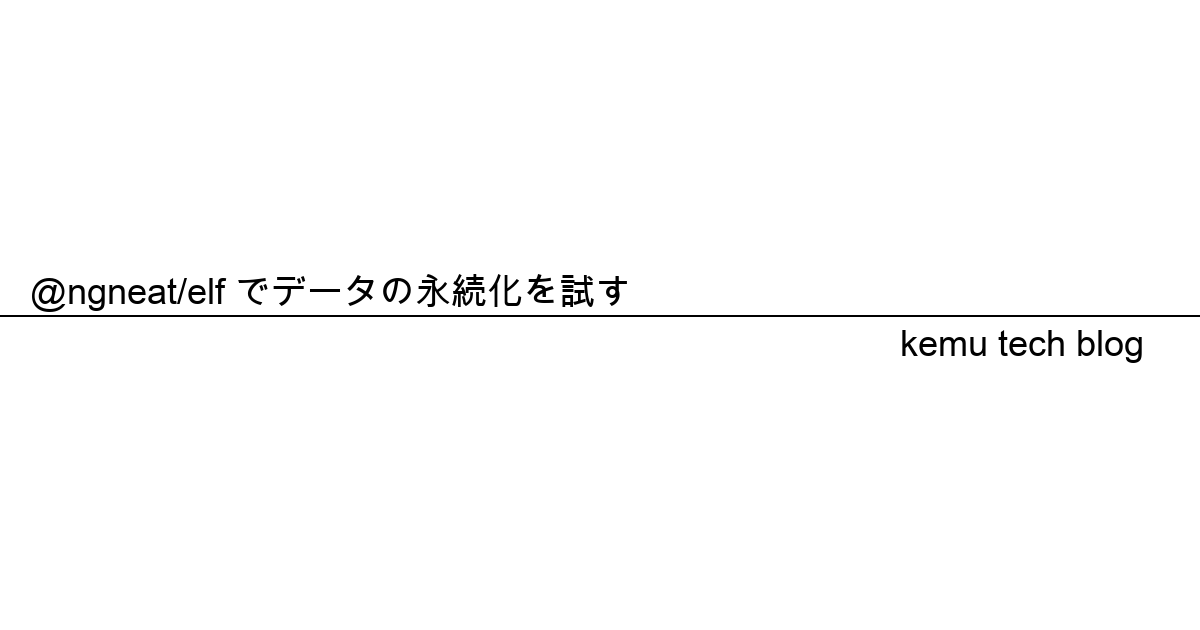
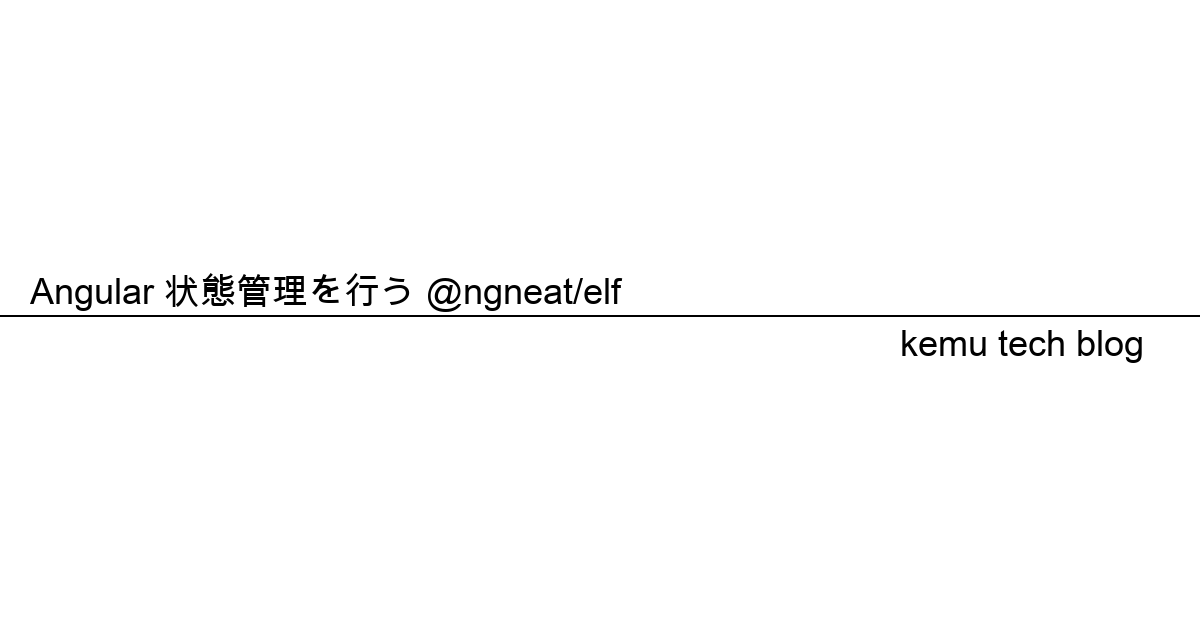
Auto-generated commit [ci skip]
Triggered by commit: https://github.com/kemu3007/portal/commit/6e4d956bd43f91a28b83e9a7c2ab896b333e4a61

Changed region(s): [[0.0, 0.4222, 0.5242, 0.5127]]

diff --git a/789.3d772800b474000d.js b/789.3d772800b474000d.js
@@ -1,0 +1,1 @@
+(self.webpackChunkportal=self.webpackChunkportal||[]).push([[789],{2789:(m,f,a)=>{"use strict";a.r(f),a.d(f,{BlogModule:()=>G});var s=a(9808),i=a(2956),t=a(1223),g=a(2313),b=a(1127),p=a(8304),v=a(1364),C=a(1441),y=a(3892);function j(o,l){if(1&o&&(t.TgZ(0,"div",12)(1,"div",13)(2,"div",14),t._UZ(3,"img",15),t.TgZ(4,"a",16),t._uU(5),t.qZA(),t._UZ(6,"br"),t.qZA(),t._UZ(7,"hr"),t._uU(8),t.qZA()()),2&o){const e=l.$implicit;t.xp6(3),t.Q6J("src",e.user.avatar_url,t.LSH),t.xp6(1),t.Q6J("href",e.user.html_url,t.LSH),t.xp6(1),t.Oqu(e.user.login),t.xp6(3),t.hij(" ",e.body," ")}}function F(o,l){1&o&&t._UZ(0,"ng2-adsense",17)}const B=function(){return[]};function x(o,l){if(1&o&&(t.TgZ(0,"div",3)(1,"div",4)(2,"h2"),t._uU(3),t.qZA(),t.TgZ(4,"div",5)(5,"p"),t._uU(6),t.ALo(7,"date"),t.qZA(),t._UZ(8,"app-tweet-btn"),t.qZA(),t._UZ(9,"hr")(10,"div",6)(11,"hr",7),t.TgZ(12,"h3"),t._uU(13,"comments"),t.qZA(),t.YNc(14,j,9,4,"div",8),t.TgZ(15,"p"),t._uU(16," \u30b3\u30e1\u30f3\u30c8\u306f\u3053\u3061\u3089\u304b\u3089 "),t.TgZ(17,"a",9),t._uU(18),t.qZA(),t._UZ(19,"br"),t._uU(20," \u203b\u30ea\u30ea\u30fc\u30b9\u30bf\u30a4\u30df\u30f3\u30b0\u306e\u554f\u984c\u4e0a\u30da\u30fc\u30b8\u306b\u53cd\u6620\u3055\u308c\u306a\u3044\u3053\u3068\u304c\u3042\u308a\u307e\u3059\u304c\u78ba\u8a8d\u3057\u3066\u307e\u3059\u3002 "),t.qZA()(),t.TgZ(21,"div",10),t.YNc(22,F,1,0,"ng2-adsense",11),t.qZA()()),2&o){const e=t.oxw();t.xp6(3),t.Oqu(e.article.title),t.xp6(3),t.Oqu(t.xi3(7,7,e.article.created_at,"yyyy.MM.dd hh:mm")),t.xp6(4),t.Q6J("innerHTML",e.marked.parse(e.article.body),t.oJD),t.xp6(4),t.Q6J("ngForOf",e.article.comments),t.xp6(3),t.Q6J("href",e.article.html_url,t.LSH),t.xp6(1),t.Oqu(e.article.html_url),t.xp6(4),t.Q6J("ngForOf",t.DdM(10,B).constructor(e.adsLength))}}let D=(()=>{class o{constructor(e,n,r,c,u,h){this.titleService=e,this.route=n,this.router=r,this.messageService=c,this.breadcrumbService=u,this.markedService=h,this.marked=this.markedService.marked}ngOnInit(){this.article$.then(e=>{this.titleService.setTitle(`kemu tech blog | ${e.title}`),this.article=e,this.breadcrumbService.breadcrumb=`/blog/${this.article.title}`})}get article$(){return a(3101)(`./${this.route.snapshot.paramMap.get("id")}.json`).catch(e=>this.router.navigate(["/blog"]).then(n=>this.messageService.pushMessage({type:"warning",body:"\u8a18\u4e8b\u304c\u5b58\u5728\u3057\u3066\u3044\u307e\u305b\u3093"})))}get adsLength(){return window.screen.width>=768?4:1}}return o.\u0275fac=function(e){return new(e||o)(t.Y36(g.Dx),t.Y36(i.gz),t.Y36(i.F0),t.Y36(b.e),t.Y36(p.p),t.Y36(v.$))},o.\u0275cmp=t.Xpm({type:o,selectors:[["app-blog-detail"]],decls:3,vars:1,consts:[["rel","stylesheet","href","//cdn.jsdelivr.net/gh/highlightjs/cdn-release@11.4.0/build/styles/default.min.css"],[1,"container-fluid"],["class","row mt-3",4,"ngIf"],[1,"row","mt-3"],[1,"col-md-8"],[1,"d-flex","justify-content-between"],[3,"innerHTML"],[1,"mt-5"],["class","card",4,"ngFor","ngForOf"],[3,"href"],[1,"col-md-4"],["style","display: block","adFormat","fluid","slot","9091938102","layoutKey","-ef+6k-30-ac+ty",4,"ngFor","ngForOf"],[1,"card"],[1,"card-body"],[1,"row"],[2,"width","50px",3,"src"],[2,"display","contents",3,"href"],["adFormat","fluid","slot","9091938102","layoutKey","-ef+6k-30-ac+ty",2,"display","block"]],template:function(e,n){1&e&&(t._UZ(0,"link",0),t.TgZ(1,"div",1),t.YNc(2,x,23,11,"div",2),t.qZA()),2&e&&(t.xp6(2),t.Q6J("ngIf",n.article))},directives:[s.O5,C.x,s.sg,y.nq],pipes:[s.uU],styles:["[_nghost-%COMP%]     img{max-width:100%}"]}),o})();var T=a(3996),Z=a(1566),L=a(4482),O=a(5403),M=a(1884),S=a(4004),U=a(8443);const P=function(o){return{"background-color":o}};function k(o,l){if(1&o&&(t.TgZ(0,"p",17),t._uU(1),t.qZA()),2&o){const e=l.$implicit;t.Q6J("ngStyle",t.VKq(2,P,"#"+e.color)),t.xp6(1),t.hij(" ",e.name," ")}}function w(o,l){1&o&&t._UZ(0,"ng2-adsense",18)}const J=function(o){return["/blog",o]};function H(o,l){if(1&o&&(t.TgZ(0,"div")(1,"a",8)(2,"div",9)(3,"div",10)(4,"h5",11),t._uU(5),t.qZA(),t.TgZ(6,"div",12),t.YNc(7,k,2,4,"p",13),t.qZA()(),t._UZ(8,"hr",14),t.TgZ(9,"p",15),t._uU(10),t.qZA()()(),t.YNc(11,w,1,0,"ng2-adsense",16),t.qZA()),2&o){const e=l.$implicit,n=l.index,r=t.oxw();t.xp6(1),t.Q6J("routerLink",t.VKq(5,J,e)),t.xp6(4),t.hij(" ",r.articles[e].title," "),t.xp6(2),t.Q6J("ngForOf",r.getLabels(r.articles[e])),t.xp6(3),t.hij("",r.articles[e].body,"..."),t.xp6(1),t.Q6J("ngIf",(n+1)%3==0)}}function N(o,l){1&o&&t._UZ(0,"ng2-adsense",19)}const Q=function(){return[]},Y=[{path:"",component:(()=>{class o{constructor(e,n){this.router=n,this.search=r=>r.pipe(function E(o,l=Z.z){return(0,L.e)((e,n)=>{let r=null,c=null,u=null;const h=()=>{if(r){r.unsubscribe(),r=null;const d=c;c=null,n.next(d)}};function K(){const d=u+o,A=l.now();if(A<d)return r=this.schedule(void 0,d-A),void n.add(r);h()}e.subscribe((0,O.x)(n,d=>{c=d,u=l.now(),r||(r=l.schedule(K,o),n.add(r))},()=>{h(),n.complete()},void 0,()=>{c=r=null}))})}(200),(0,M.x)()).pipe((0,S.U)(c=>Object.keys(this.searchData).filter(u=>u.toLowerCase().includes(c.toLowerCase())))),e.setTitle("kemu tech blog")}get articles(){return T}get articleKeys(){return Object.keys(this.articles).sort((e,n)=>e>n?-1:1)}get searchData(){const e={};return Object.keys(this.articles).forEach(n=>{const r=`${this.articles[n].title} | ${this.getLabels(this.articles[n])[0].name}`;e[r]=n}),e}get adsLength(){return window.screen.width>=768?Math.floor(Object.keys(this.articles).length/3):1}getLabels(e){return e.labels.filter(n=>"article"!==n.name)}selectArticle(e){this.router.navigate(["/blog",this.searchData[e.item]])}}return o.\u0275fac=function(e){return new(e||o)(t.Y36(g.Dx),t.Y36(i.F0))},o.\u0275cmp=t.Xpm({type:o,selectors:[["app-blog-list"]],decls:8,vars:4,consts:[[1,"container-fluid"],[1,"row","mt-3"],[1,"col-md-8"],["placeholder","search","NgbTypeahead","",1,"form-control",3,"ngbTypeahead","selectItem","blur"],["instance","ngbTypeahead"],[4,"ngFor","ngForOf"],[1,"col-md-4"],["style","display: block","adFormat","fluid","slot","9091938102","layoutKey","-ef+6k-30-ac+ty",4,"ngFor","ngForOf"],[1,"card","mt-1","text-decoration-none","text-muted",2,"cursor","pointer",3,"routerLink"],[1,"card-body"],[1,"row"],[1,"col-9","card-link","text-black"],[1,"col-3","d-flex","align-items-start","justify-content-end"],["class","badge rounded-pill",3,"ngStyle",4,"ngFor","ngForOf"],[1,"mt-0"],[1,"card-text"],["adFormat","horizontal",4,"ngIf"],[1,"badge","rounded-pill",3,"ngStyle"],["adFormat","horizontal"],["adFormat","fluid","slot","9091938102","layoutKey","-ef+6k-30-ac+ty",2,"display","block"]],template:function(e,n){if(1&e){const r=t.EpF();t.TgZ(0,"div",0)(1,"div",1)(2,"div",2)(3,"input",3,4),t.NdJ("selectItem",function(u){return n.selectArticle(u)})("blur",function(){return t.CHM(r),t.MAs(4).dismissPopup()}),t.qZA(),t.YNc(5,H,12,7,"div",5),t.qZA(),t.TgZ(6,"div",6),t.YNc(7,N,1,0,"ng2-adsense",7),t.qZA()()()}2&e&&(t.xp6(3),t.Q6J("ngbTypeahead",n.search),t.xp6(2),t.Q6J("ngForOf",n.articleKeys),t.xp6(2),t.Q6J("ngForOf",t.DdM(3,Q).constructor(n.adsLength)))},directives:[U.dR,s.sg,i.yS,s.PC,s.O5,y.nq],encapsulation:2}),o})()},{path:":id",component:D}];let I=(()=>{class o{}return o.\u0275fac=function(e){return new(e||o)},o.\u0275mod=t.oAB({type:o}),o.\u0275inj=t.cJS({imports:[[i.Bz.forChild(Y)],i.Bz]}),o})();var $=a(4466);let G=(()=>{class o{}return o.\u0275fac=function(e){return new(e||o)},o.\u0275mod=t.oAB({type:o}),o.\u0275inj=t.cJS({imports:[[s.ez,I,$.m]]}),o})()},3101:(m,f,a)=>{var s={"./1160526026.json":[898,898],"./1160542827.json":[4903,903],"./1160542878.json":[9542,542],"./1160542944.json":[2232,232],"./1160543028.json":[3334,334],"./1160543074.json":[5245,922],"./1160543248.json":[7887,887],"./1160543297.json":[2604,604],"./1160543378.json":[6998,998],"./1160543419.json":[5363,363],"./1160653032.json":[2070,70],"./1167241988.json":[3127,127],"./1167568913.json":[149,149],"./1169430844.json":[5215,215],"./1169514542.json":[5443,443],"./1170873471.json":[3430,430],"./1174254849.json":[6961,961],"./1174435949.json":[3554,554],"./1174533240.json":[7794,716],"./list.json":[3996]};function i(t){if(!a.o(s,t))return Promise.resolve().then(()=>{var p=new Error("Cannot find module '"+t+"'");throw p.code="MODULE_NOT_FOUND",p});var g=s[t],b=g[0];return Promise.all(g.slice(1).map(a.e)).then(()=>a.t(b,19))}i.keys=()=>Object.keys(s),i.id=3101,m.exports=i},3996:m=>{"use strict";m.exports=JSON.parse('{"1160526026":{"title":"Google Adsense\u3067\u8a70\u307e\u3063\u305f\u8a71\u3001\u30b5\u30a4\u30c8\u69cb\u6210\u306a\u3069","body":"\u3053\u306e\u30b5\u30a4\u30c8\u306e\u69cb\u6210\u306f\u304a\u540d\u524d\u30c9\u30c3\u30c8\u30b3\u30e0 -> Route 53 -> AWS ALB -(http1.1)> AWS EC2\u3068\u3044\u3046\u5f62\u306b\u306a\u3063\u3066\u3044\u307e\u3059\u3002\u5b9f\u88c5\u5f53\u521d\u306f\u304a\u540d\u524d\u30c9\u30c3\u30c8\u30b3\u30e0 -> AWS ALB -(h","labels":[{"name":"article","color":"C200E5"},{"name":"\u305d\u306e\u4ed6","color":"BFDADC"}]},"1160542827":{"title":"Django shortcuts\u307e\u3068\u3081\\t","body":" [django shortcuts](https://github.com/django/django/blob/main/django/shortcuts.py) renderpydef rend","labels":[{"name":"article","color":"C200E5"},{"name":"Django","color":"5FC353"}]},"1160542878":{"title":"Markdown\u3092HTML\u306b\u5909\u63db/css\u3092\u4ed8\u4e0e\u3059\u308b","body":"markdown\u306f\u4ee5\u4e0b\u306e\u30e9\u30a4\u30d6\u30e9\u30ea\u3092\u4f7f\u3046\u3053\u3068\u3067HTML\u306b\u5909\u63db\u53ef\u80fd\u3067\u3059\u3002[Python-Markdown](https://github.com/Python-Markdown/markdown/) i","labels":[{"name":"article","color":"C200E5"},{"name":"Python","color":"1D76DB"}]},"1160542944":{"title":"Django4.0\u304c\u30ea\u30ea\u30fc\u30b9\u3055\u308c\u305f\u306e\u3067\u9069\u5f53\u306b\u8a66\u3057\u3066\u307f\u308b","body":"[release notes](https://docs.djangoproject.com/en/dev/releases/4.0/) \u4f9d\u5b58\u30e9\u30a4\u30d6\u30e9\u30ea- Django 3.2asgiref==3.4","labels":[{"name":"article","color":"C200E5"},{"name":"Django","color":"5FC353"}]},"1160543028":{"title":"Django Admin\u3092\u81ea\u52d5\u751f\u6210\u3059\u308b","body":"admin\u767b\u9332\u5fd8\u308c\u3066\u3081\u3093\u3069\u304f\u3055\u3044\u306a\uff5e\u3068\u3044\u3046\u3053\u3068\u304c\u3042\u3063\u305f\u306e\u3067\u30e1\u30e2\u4ee3\u308f\u308a\u306b\u6b8b\u3057\u3066\u304a\u304d\u307e\u3059\u3002 \u4fbf\u5229\u306a\u30bf\u30a4\u30df\u30f3\u30b0- Django Admin\u306b\u305d\u308c\u307b\u3069\u529b\u3092\u3044\u308c\u305f\u304f\u306a\u3044\u3051\u308c\u3069\u6700\u4f4e\u9650\u306e\u6a5f\u80fd\u306f\u307b\u3057\u3044- \u30e2\u30c7\u30eb\u8ffd\u52a0\u6642","labels":[{"name":"article","color":"C200E5"},{"name":"Django","color":"5FC353"}]},"1160543074":{"title":"type safe\u306bAngular\u306eform\u3092\u6271\u3046","body":"@ngneat/reactive-forms\u3092\u5229\u7528\u3059\u308b\u3068type safe\u306bform\u3092\u66f8\u304f\u3053\u3068\u304c\u3067\u304d\u307e\u3059\u3002--- \u901a\u5e38\u306eAngular\u306eformtsimport { FormBuilder } fro","labels":[{"name":"article","color":"C200E5"},{"name":"Angular","color":"D93F0B"}]},"1160543248":{"title":"DRF \u7d10\u3065\u304f\u30e2\u30c7\u30eb\u306e\u8868\u793a\u4ef6\u6570\u3092\u5236\u9650\u3059\u308b","body":"django\u306b\u306fprefetch_related \u3068\u3044\u3046\u6a5f\u80fd\u304c\u5b58\u5728\u3057\u3066\u304a\u308a\u4ee5\u4e0b\u306e\u3088\u3046\u306b\u8a18\u8f09\u3059\u308b\u3053\u3068\u3067\u767a\u884c\u3055\u308c\u308bSQL\u3092\u6291\u5236\u3059\u308b\u3053\u3068\u304c\u3067\u304d\u307e\u3059\u3002pythonArticle.objects.prefetc","labels":[{"name":"article","color":"C200E5"},{"name":"Django","color":"5FC353"}]},"1160543297":{"title":"\u30d5\u30ed\u30f3\u30c8\u30a8\u30f3\u30c9\u306e\u30c6\u30b9\u30c8\u3092\u66f8\u304f(\u30b9\u30ca\u30c3\u30d7\u30b7\u30e7\u30c3\u30c8\u30c6\u30b9\u30c8\u7de8)","body":" \u74b0\u5883Angular 13, node 16\u4eca\u56de\u306fjest\u3092\u5229\u7528\u3059\u308b\u305f\u3081\u30c7\u30d5\u30a9\u30eb\u30c8\u3067\u5165\u3063\u3066\u3044\u308bKarma\u3092\u524a\u9664\u3057\u307e\u3059shnpm run ng add @briebug/jest-schematic\u53c2\u8003","labels":[{"name":"article","color":"C200E5"},{"name":"Angular","color":"D93F0B"}]},"1160543378":{"title":"Gmail API push notification\u3092\u5229\u7528\u3059\u308b","body":"\u30e1\u30fc\u30eb\u306b\u30d5\u30c3\u30af\u3057\u3066\u51e6\u7406\u3092\u631f\u3080\u3053\u3068\u304c\u3067\u304d\u308b\u3088\u3046\u306b\u306a\u308a\u307e\u3059\u3002 \u74b0\u5883- Python 3.10- google-api-python-client==2.36.0- google_auth_oauthlib","labels":[{"name":"article","color":"C200E5"},{"name":"GCP","color":"FBCA04"}]},"1160543419":{"title":"Nuxt\u3067\u30ad\u30e3\u30c3\u30b7\u30e5\u3068\u3046\u307e\u304f\u3084\u308b","body":"\u81ea\u52d5\u7684\u306b\u73fe\u5728\u306e\u30b3\u30fc\u30c9\u304c\u6700\u65b0\u304b\u3069\u3046\u304b\u30c1\u30a7\u30c3\u30af\u3057\u3001\u30ad\u30e3\u30c3\u30b7\u30e5\u306e\u66f4\u65b0\u3092\u884c\u3044\u307e\u3059\u3002 \u691c\u8a3c\u74b0\u5883- Nuxt: 2.15.8- @nuxtjs/pwa: 3.3.5 \u30b3\u30fc\u30c9nuxt.config.jsjs{  p","labels":[{"name":"article","color":"C200E5"},{"name":"Nuxt","color":"0E8A16"}]},"1160653032":{"title":"GitHub Action\u3068Pages\u3067\u30d6\u30ed\u30b0\u3092\u4f5c\u308b","body":" \u74b0\u5883- npm v8.3.1- node: v16.14.0- Angular: v13.2.5- @ng-bootstrap/ng-bootstrap: 12.0.0\u203b npm run ng ad","labels":[{"name":"article","color":"C200E5"},{"name":"Angular","color":"D93F0B"}]},"1167241988":{"title":"GitHub Pages\u3067\u30c7\u30d7\u30ed\u30a4\u3057\u305fSPA\u306bOGP\u3092\u8868\u793a\u3055\u305b\u308b(\u6c17\u5408)","body":"\u901a\u5e38SPA\u3092\u30c7\u30d7\u30ed\u30a4\u3055\u305b\u305f\u5834\u5408\u3001twitter\u306a\u3069\u3067OGP\u304c\u8868\u793a\u3055\u308c\u307e\u305b\u3093\u3002\u3053\u308c\u306fOGP\u3092\u53d6\u5f97\u3059\u308bbot\u304cjs\u3092\u5b9f\u884c\u3057\u306a\u3044\u3053\u3068\u3001\u305d\u308c\u3068SPA\u306e\u305f\u3081\u8a72\u5f53\u3059\u308b\u30ea\u30f3\u30af\u5148\u306b\u9759\u7684\u306aHTML\u30d5\u30a1\u30a4\u30eb\u304c\u5b58\u5728\u3057\u3066\u3044\u306a","labels":[{"name":"article","color":"C200E5"},{"name":"Angular","color":"D93F0B"}]},"1167568913":{"title":"Google Adsense\u3092Angular\u3067\u5229\u7528\u3059\u308b","body":"\u901a\u5e38\u306eSSR\u3067\u306fGoogle Adsense\u7528\u306e\u81ea\u52d5\u5e83\u544a\u30b9\u30af\u30ea\u30d7\u30c8\u3092 <head></head> \u5185\u306b\u8a18\u8f09\u3059\u308b\u3060\u3051\u3067\u5e83\u544a\u3092\u914d\u4fe1\u3057\u3001\u53ce\u76ca\u5316\u3055\u305b\u308b\u3053\u3068\u304c\u53ef\u80fd\u3067\u3059\u3002\u305f\u3060\u3057\u3001SPA\u306e\u5834\u5408\u81ea\u52d5\u5e83\u544a\u306e\u307f\u3092\u5229\u7528\u3059\u308b","labels":[{"name":"article","color":"C200E5"},{"name":"Angular","color":"D93F0B"}]},"1169430844":{"title":"Django Rest Framework OpenAPI\u30c9\u30ad\u30e5\u30e1\u30f3\u30c8\u3092\u8d77\u3053\u3059","body":"API\u304b\u3089OpenAPI\u30c9\u30ad\u30e5\u30e1\u30f3\u30c8\u3092\u751f\u6210\u3059\u308b\u6a5f\u4f1a\u304c\u3042\u3063\u305f\u306e\u3067\u30e1\u30e2DRF\u81ea\u4f53\u306b generateschema \u3068\u3044\u3046\u30b3\u30de\u30f3\u30c9\u304c\u5b58\u5728\u3057\u3066\u3044\u308b\u305f\u3081zsh$ python manage.py generat","labels":[{"name":"article","color":"C200E5"},{"name":"Django","color":"5FC353"}]},"1169514542":{"title":"Angular component\u5185\u306bscript\u30bf\u30b0\u3092\u8a2d\u7f6e\u3059\u308b","body":"script\u30bf\u30b0\u3092 src/index.html \u4ee5\u5916\u306b\u8a2d\u7f6e\u3057\u305f\u5834\u5408\u3001\u81ea\u52d5\u7684\u306b\u53d6\u308a\u9664\u304f\u6319\u52d5\u3092\u793a\u3057\u307e\u3059\u3002\u53c2\u8003: [angular/angular4903](https://github.com/angu","labels":[{"name":"article","color":"C200E5"},{"name":"Angular","color":"D93F0B"}]},"1170873471":{"title":"Angular \u3088\u304f\u66f8\u304f\u30b3\u30fc\u30c9/\u30e9\u30a4\u30d6\u30e9\u30ea\u7f6e\u304d\u5834","body":" \u30e9\u30a4\u30d6\u30e9\u30ea- [@ngneat/reactive-forms](https://github.com/ngneat/reactive-forms)  - \u578b\u5b89\u5168\u306bformGroup\u3092\u8a18\u8f09  - \u30d5\u30a9","labels":[{"name":"article","color":"C200E5"},{"name":"Angular","color":"D93F0B"}]},"1174254849":{"title":"Angular \u72b6\u614b\u7ba1\u7406\u3092\u884c\u3046 @ngneat/elf ","body":"[@datorama/akita](https://github.com/datorama/akita)\u306e\u30da\u30fc\u30b8\u306b[@ngneat/elf](https://github.com/ngneat/elf","labels":[{"name":"article","color":"C200E5"},{"name":"Angular","color":"D93F0B"}]},"1174435949":{"title":"\u30b5\u30a4\u30c8\u306e\u69cb\u6210\u306b\u3064\u3044\u3066","body":" \u65e7\u30b5\u30a4\u30c8[kemu.site](https://kemu.site)<img width=\\"834\\" alt=\\"\u30b9\u30af\u30ea\u30fc\u30f3\u30b7\u30e7\u30c3\u30c8 2022-03-20 13 11 44\\" src=\\"https:/","labels":[{"name":"article","color":"C200E5"},{"name":"Angular","color":"D93F0B"},{"name":"Django","color":"5FC353"}]},"1174533240":{"title":"Angular reCAPTCHA\u3092\u5229\u7528\u3059\u308b","body":"reCAPTCHA\u3092\u7528\u3044\u3066bot\u304b\u3089\u306e\u30a2\u30af\u30bb\u30b9\u3092\u9632\u3050\u3053\u3068\u304c\u3067\u304d\u308b\u3088\u3046\u306b\u306a\u308a\u307e\u3059\u3002\u901a\u5e38\u3001reCAPTCHA\u3092\u5229\u7528\u3059\u308b\u5834\u5408\u3001script\u30bf\u30b0\u3092HTML\u306b\u4ed5\u8fbc\u3080\u5fc5\u8981\u304c\u3042\u308a\u307e\u3059\u3002\u305f\u3060\u3057\u3001index.html\u4e0a","labels":[{"name":"article","color":"C200E5"},{"name":"Angular","color":"D93F0B"}]}}')}}]);

diff --git a/blog/index.html b/blog/index.html
@@ -41,6 +41,6 @@
     <a href="/tools">tools</a>
     <a href="/contact">contact</a>
     <hr />
-    <a href='/blog/1160526026'>Google Adsenseで詰まった話、サイト構成など</a><hr /> このサイトの構成はお名前ドットコム -> Route 53 -> AWS ALB -(http1.1)> AWS EC2という形になっています。実装当初はお名前ドットコム -> AWS ALB -(h<hr /><a href='/blog/1160542827'>Django shortcutsまとめ	</a><hr />  [django shortcuts](https://github.com/django/django/blob/main/django/shortcuts.py) renderpydef rend<hr /><a href='/blog/1160542878'>MarkdownをHTMLに変換/cssを付与する</a><hr /> markdownは以下のライブラリを使うことでHTMLに変換可能です。[Python-Markdown](https://github.com/Python-Markdown/markdown/) i<hr /><a href='/blog/1160542944'>Django4.0がリリースされたので適当に試してみる</a><hr /> [release notes](https://docs.djangoproject.com/en/dev/releases/4.0/) 依存ライブラリ- Django 3.2asgiref==3.4<hr /><a href='/blog/1160543028'>Django Adminを自動生成する</a><hr /> admin登録忘れてめんどくさいな～ということがあったのでメモ代わりに残しておきます。 便利なタイミング- Django Adminにそれほど力をいれたくないけれど最低限の機能はほしい- モデル追加時<hr /><a href='/blog/1160543074'>type safeにAngularのformを扱う</a><hr /> @ngneat/reactive-formsを利用するとtype safeにformを書くことができます。--- 通常のAngularのformtsimport { FormBuilder } fro<hr /><a href='/blog/1160543248'>DRF 紐づくモデルの表示件数を制限する</a><hr /> djangoにはprefetch_related という機能が存在しており以下のように記載することで発行されるSQLを抑制することができます。pythonArticle.objects.prefetc<hr /><a href='/blog/1160543297'>フロントエンドのテストを書く(スナップショットテスト編)</a><hr />  環境Angular 13, node 16今回はjestを利用するためデフォルトで入っているKarmaを削除しますshnpm run ng add @briebug/jest-schematic参考<hr /><a href='/blog/1160543378'>Gmail API push notificationを利用する</a><hr /> メールにフックして処理を挟むことができるようになります。 環境- Python 3.10- google-api-python-client==2.36.0- google_auth_oauthlib<hr /><a href='/blog/1160543419'>Nuxtでキャッシュとうまくやる</a><hr /> 自動的に現在のコードが最新かどうかチェックし、キャッシュの更新を行います。 検証環境- Nuxt: 2.15.8- @nuxtjs/pwa: 3.3.5 コードnuxt.config.jsjs{  p<hr /><a href='/blog/1160653032'>GitHub ActionとPagesでブログを作る</a><hr />  環境- npm v8.3.1- node: v16.14.0- Angular: v13.2.5- @ng-bootstrap/ng-bootstrap: 12.0.0※ npm run ng ad<hr /><a href='/blog/1167241988'>GitHub PagesでデプロイしたSPAにOGPを表示させる(気合)</a><hr /> 通常SPAをデプロイさせた場合、twitterなどでOGPが表示されません。これはOGPを取得するbotがjsを実行しないこと、それとSPAのため該当するリンク先に静的なHTMLファイルが存在していな<hr /><a href='/blog/1167568913'>Google AdsenseをAngularで利用する</a><hr /> 通常のSSRではGoogle Adsense用の自動広告スクリプトを <head></head> 内に記載するだけで広告を配信し、収益化させることが可能です。ただし、SPAの場合自動広告のみを利用する<hr /><a href='/blog/1169430844'>Django Rest Framework OpenAPIドキュメントを起こす</a><hr /> APIからOpenAPIドキュメントを生成する機会があったのでメモDRF自体に generateschema というコマンドが存在しているためzsh$ python manage.py generat<hr /><a href='/blog/1169514542'>Angular component内にscriptタグを設置する</a><hr /> scriptタグを src/index.html 以外に設置した場合、自動的に取り除く挙動を示します。参考: [angular/angular4903](https://github.com/angu<hr /><a href='/blog/1170873471'>Angular よく書くコード/ライブラリ置き場</a><hr />  ライブラリ- [@ngneat/reactive-forms](https://github.com/ngneat/reactive-forms)  - 型安全にformGroupを記載  - フォ<hr /><a href='/blog/1174254849'>@ngneat/elf でデータの永続化を試す</a><hr /> [@datorama/akita](https://github.com/datorama/akita)のページに[@ngneat/elf](https://github.com/ngneat/elf<hr /><a href='/blog/1174435949'>サイトの構成について</a><hr />  旧サイト[kemu.site](https://kemu.site)<img width="834" alt="スクリーンショット 2022-03-20 13 11 44" src="https:/<hr /><a href='/blog/1174533240'>Angular reCAPTCHAを利用する</a><hr /> reCAPTCHAを用いてbotからのアクセスを防ぐことができるようになります。通常、reCAPTCHAを利用する場合、scriptタグをHTMLに仕込む必要があります。ただし、index.html上
+    <a href='/blog/1160526026'>Google Adsenseで詰まった話、サイト構成など</a><hr /> このサイトの構成はお名前ドットコム -> Route 53 -> AWS ALB -(http1.1)> AWS EC2という形になっています。実装当初はお名前ドットコム -> AWS ALB -(h<hr /><a href='/blog/1160542827'>Django shortcutsまとめ	</a><hr />  [django shortcuts](https://github.com/django/django/blob/main/django/shortcuts.py) renderpydef rend<hr /><a href='/blog/1160542878'>MarkdownをHTMLに変換/cssを付与する</a><hr /> markdownは以下のライブラリを使うことでHTMLに変換可能です。[Python-Markdown](https://github.com/Python-Markdown/markdown/) i<hr /><a href='/blog/1160542944'>Django4.0がリリースされたので適当に試してみる</a><hr /> [release notes](https://docs.djangoproject.com/en/dev/releases/4.0/) 依存ライブラリ- Django 3.2asgiref==3.4<hr /><a href='/blog/1160543028'>Django Adminを自動生成する</a><hr /> admin登録忘れてめんどくさいな～ということがあったのでメモ代わりに残しておきます。 便利なタイミング- Django Adminにそれほど力をいれたくないけれど最低限の機能はほしい- モデル追加時<hr /><a href='/blog/1160543074'>type safeにAngularのformを扱う</a><hr /> @ngneat/reactive-formsを利用するとtype safeにformを書くことができます。--- 通常のAngularのformtsimport { FormBuilder } fro<hr /><a href='/blog/1160543248'>DRF 紐づくモデルの表示件数を制限する</a><hr /> djangoにはprefetch_related という機能が存在しており以下のように記載することで発行されるSQLを抑制することができます。pythonArticle.objects.prefetc<hr /><a href='/blog/1160543297'>フロントエンドのテストを書く(スナップショットテスト編)</a><hr />  環境Angular 13, node 16今回はjestを利用するためデフォルトで入っているKarmaを削除しますshnpm run ng add @briebug/jest-schematic参考<hr /><a href='/blog/1160543378'>Gmail API push notificationを利用する</a><hr /> メールにフックして処理を挟むことができるようになります。 環境- Python 3.10- google-api-python-client==2.36.0- google_auth_oauthlib<hr /><a href='/blog/1160543419'>Nuxtでキャッシュとうまくやる</a><hr /> 自動的に現在のコードが最新かどうかチェックし、キャッシュの更新を行います。 検証環境- Nuxt: 2.15.8- @nuxtjs/pwa: 3.3.5 コードnuxt.config.jsjs{  p<hr /><a href='/blog/1160653032'>GitHub ActionとPagesでブログを作る</a><hr />  環境- npm v8.3.1- node: v16.14.0- Angular: v13.2.5- @ng-bootstrap/ng-bootstrap: 12.0.0※ npm run ng ad<hr /><a href='/blog/1167241988'>GitHub PagesでデプロイしたSPAにOGPを表示させる(気合)</a><hr /> 通常SPAをデプロイさせた場合、twitterなどでOGPが表示されません。これはOGPを取得するbotがjsを実行しないこと、それとSPAのため該当するリンク先に静的なHTMLファイルが存在していな<hr /><a href='/blog/1167568913'>Google AdsenseをAngularで利用する</a><hr /> 通常のSSRではGoogle Adsense用の自動広告スクリプトを <head></head> 内に記載するだけで広告を配信し、収益化させることが可能です。ただし、SPAの場合自動広告のみを利用する<hr /><a href='/blog/1169430844'>Django Rest Framework OpenAPIドキュメントを起こす</a><hr /> APIからOpenAPIドキュメントを生成する機会があったのでメモDRF自体に generateschema というコマンドが存在しているためzsh$ python manage.py generat<hr /><a href='/blog/1169514542'>Angular component内にscriptタグを設置する</a><hr /> scriptタグを src/index.html 以外に設置した場合、自動的に取り除く挙動を示します。参考: [angular/angular4903](https://github.com/angu<hr /><a href='/blog/1170873471'>Angular よく書くコード/ライブラリ置き場</a><hr />  ライブラリ- [@ngneat/reactive-forms](https://github.com/ngneat/reactive-forms)  - 型安全にformGroupを記載  - フォ<hr /><a href='/blog/1174254849'>Angular 状態管理を行う @ngneat/elf </a><hr /> [@datorama/akita](https://github.com/datorama/akita)のページに[@ngneat/elf](https://github.com/ngneat/elf<hr /><a href='/blog/1174435949'>サイトの構成について</a><hr />  旧サイト[kemu.site](https://kemu.site)<img width="834" alt="スクリーンショット 2022-03-20 13 11 44" src="https:/<hr /><a href='/blog/1174533240'>Angular reCAPTCHAを利用する</a><hr /> reCAPTCHAを用いてbotからのアクセスを防ぐことができるようになります。通常、reCAPTCHAを利用する場合、scriptタグをHTMLに仕込む必要があります。ただし、index.html上
   </body>
 </html>

diff --git a/961.4d3a812d81f08c98.js b/961.4d3a812d81f08c98.js
@@ -1,0 +1,1 @@
+"use strict";(self.webpackChunkportal=self.webpackChunkportal||[]).push([[961],{6961:e=>{e.exports=JSON.parse('{"url":"https://api.github.com/repos/kemu3007/portal/issues/19","repository_url":"https://api.github.com/repos/kemu3007/portal","labels_url":"https://api.github.com/repos/kemu3007/portal/issues/19/labels{/name}","comments_url":"https://api.github.com/repos/kemu3007/portal/issues/19/comments","events_url":"https://api.github.com/repos/kemu3007/portal/issues/19/events","html_url":"https://github.com/kemu3007/portal/issues/19","id":1174254849,"node_id":"I_kwDOG7qoq85F_bUB","number":19,"title":"Angular \u72b6\u614b\u7ba1\u7406\u3092\u884c\u3046 @ngneat/elf ","user":{"login":"kemu3007","id":29157528,"node_id":"MDQ6VXNlcjI5MTU3NTI4","avatar_url":"https://avatars.githubusercontent.com/u/29157528?v=4","gravatar_id":"","url":"https://api.github.com/users/kemu3007","html_url":"https://github.com/kemu3007","followers_url":"https://api.github.com/users/kemu3007/followers","following_url":"https://api.github.com/users/kemu3007/following{/other_user}","gists_url":"https://api.github.com/users/kemu3007/gists{/gist_id}","starred_url":"https://api.github.com/users/kemu3007/starred{/owner}{/repo}","subscriptions_url":"https://api.github.com/users/kemu3007/subscriptions","organizations_url":"https://api.github.com/users/kemu3007/orgs","repos_url":"https://api.github.com/users/kemu3007/repos","events_url":"https://api.github.com/users/kemu3007/events{/privacy}","received_events_url":"https://api.github.com/users/kemu3007/received_events","type":"User","site_admin":false},"labels":[{"id":3898939400,"node_id":"LA_kwDOG7qoq87oZRgI","url":"https://api.github.com/repos/kemu3007/portal/labels/article","name":"article","color":"C200E5","default":false,"description":""},{"id":3900074882,"node_id":"LA_kwDOG7qoq87odmuC","url":"https://api.github.com/repos/kemu3007/portal/labels/Angular","name":"Angular","color":"D93F0B","default":false,"description":""}],"state":"open","locked":false,"assignee":null,"assignees":[],"milestone":null,"comments":[],"created_at":"2022-03-19T12:29:12Z","updated_at":"2022-03-21T14:07:38Z","closed_at":null,"author_association":"OWNER","active_lock_reason":null,"body":"[@datorama/akita](https://github.com/datorama/akita)\u306e\u30da\u30fc\u30b8\u306b[@ngneat/elf](https://github.com/ngneat/elf)\u3092\u78ba\u8a8d\u3057\u3066\u306d\u3068\u3044\u3046\u4ee5\u4e0b\u306e\u8a18\u8f09\u304c\u3042\u3063\u305f\u306e\u3067\u52d5\u4f5c\u78ba\u8a8d\\r\\n\\r\\n`Elf, a newer state management solution, has been published. We recommend checking it out \u{1f680}`\\r\\n\\r\\n---\\r\\n\\r\\n#### \u30a4\u30f3\u30b9\u30c8\u30fc\u30eb\\r\\n\\r\\n\u4eca\u56de\u306f\u30bb\u30c3\u30b7\u30e7\u30f3\u30b9\u30c8\u30ec\u30fc\u30b8\u306b\u30c7\u30fc\u30bf\u3092\u4fdd\u5b58\u3059\u308b\u305f\u3081 `@ngneat/elf-persist-state` \u3082\u30a4\u30f3\u30b9\u30c8\u30fc\u30eb\u3057\u307e\u3059\u3002\\r\\n\\r\\n```zsh\\r\\n$ npm i @ngneat/elf @ngneat/elf-persist-state\\r\\n```\\r\\n\\r\\n---\\r\\n\\r\\n#### \u5b9f\u88c5\\r\\n\\r\\nakita\u3068\u7570\u306a\u308a\u3001cli\u3092\u5229\u7528\u3057\u3066\u30d5\u30a1\u30a4\u30eb\u3092\u751f\u6210\u3057\u3066\u5229\u7528\u3059\u308b\u969b\u306binject\u3059\u308b\u5f62\u3067\u306f\u306a\u304f\u3001\u4ee5\u4e0b\u306e\u8a18\u8ff0\u306e\u307f\u3067\u52d5\u304b\u3059\u3053\u3068\u304c\u53ef\u80fd\u3067\u3059\u3002\\r\\n\\r\\n- `shared/page.repository.ts`\\r\\n\\r\\n```ts\\r\\nimport { createStore, withProps } from \'@ngneat/elf\';\\r\\nimport { persistState, sessionStorageStrategy } from \'@ngneat/elf-persist-state\';\\r\\n\\r\\ninterface state {\\r\\n  location: number;\\r\\n}\\r\\n\\r\\nconst pageStore = createStore({ name: \'pageStore\' }, withProps<state>({ location: 0 }));\\r\\n\\r\\npersistState(pageStore, { key: \'page\', storage: sessionStorageStrategy });\\r\\n\\r\\nexport class PageState {\\r\\n  location = pageStore.getValue().location;\\r\\n\\r\\n  update(key: keyof state, value: any) {\\r\\n    pageStore.update((state) => ({\\r\\n      ...state,\\r\\n      [key]: value,\\r\\n    }));\\r\\n  }\\r\\n}\\r\\n```\\r\\n\\r\\n---\\r\\n\\r\\n#### \u611f\u60f3\\r\\n\\r\\nakita\u306e\u69cb\u9020(service, store, query)\u304c\u308f\u304b\u308a\u3084\u3059\u3044\u4ee3\u308f\u308a\u306b\u8907\u96d1\u3067\u3042\u308b\u306e\u306b\u5bfe\u3057\u3066elf\u306b\u3064\u3044\u3066\u306f\u624b\u8efd\u3067\u6271\u3044\u3084\u3059\u3044\u3068\u3044\u3046\u5370\u8c61\u3092\u53d7\u3051\u307e\u3057\u305f\u3002\\r\\n\\r\\n\u4eca\u5ea6http\u30ea\u30af\u30a8\u30b9\u30c8\u56de\u308a\u306b\u95a2\u3057\u3066\u3082\u30c6\u30b9\u30c8\u3092\u884c\u3046\u4e88\u5b9a\u3067\u3059\u3002\\r\\n\\r\\nelf\u306b\u5b8c\u5168\u79fb\u884c\u3057\u3066\u3057\u307e\u3046\u306e\u304b\u3068\u4eca\u307e\u3067\u306e\u30d7\u30ed\u30b8\u30a7\u30af\u30c8\u306e\u79fb\u884c\u306b\u3064\u3044\u3066\u3061\u3087\u3063\u3068\u8f9b\u3044\u304b\u3082\u3057\u308c\u306a\u3044\u306a\u3068\u601d\u3063\u305f\u306e\u3067\u3059\u304c[\u3053\u306e\u8fba\u308a](https://github.com/datorama/akita/discussions/770#discussioncomment-1620967)\u3092\u898b\u308b\u9650\u308a\u3067\u306f\u7dad\u6301\u306f\u3055\u308c\u308b\u3088\u3046\u3067\u3059\u3002","reactions":{"url":"https://api.github.com/repos/kemu3007/portal/issues/19/reactions","total_count":0,"+1":0,"-1":0,"laugh":0,"hooray":0,"confused":0,"heart":0,"rocket":0,"eyes":0},"timeline_url":"https://api.github.com/repos/kemu3007/portal/issues/19/timeline","performed_via_github_app":null}')}}]);

diff --git a/runtime.f636dacda4126395.js b/runtime.f636dacda4126395.js
@@ -1,0 +1,1 @@
+(()=>{"use strict";var e,v={},g={};function r(e){var o=g[e];if(void 0!==o)return o.exports;var t=g[e]={exports:{}};return v[e](t,t.exports,r),t.exports}r.m=v,e=[],r.O=(o,t,f,d)=>{if(!t){var a=1/0;for(n=0;n<e.length;n++){for(var[t,f,d]=e[n],l=!0,c=0;c<t.length;c++)(!1&d||a>=d)&&Object.keys(r.O).every(p=>r.O[p](t[c]))?t.splice(c--,1):(l=!1,d<a&&(a=d));if(l){e.splice(n--,1);var u=f();void 0!==u&&(o=u)}}return o}d=d||0;for(var n=e.length;n>0&&e[n-1][2]>d;n--)e[n]=e[n-1];e[n]=[t,f,d]},(()=>{var o,e=Object.getPrototypeOf?t=>Object.getPrototypeOf(t):t=>t.__proto__;r.t=function(t,f){if(1&f&&(t=this(t)),8&f||"object"==typeof t&&t&&(4&f&&t.__esModule||16&f&&"function"==typeof t.then))return t;var d=Object.create(null);r.r(d);var n={};o=o||[null,e({}),e([]),e(e)];for(var a=2&f&&t;"object"==typeof a&&!~o.indexOf(a);a=e(a))Object.getOwnPropertyNames(a).forEach(l=>n[l]=()=>t[l]);return n.default=()=>t,r.d(d,n),d}})(),r.d=(e,o)=>{for(var t in o)r.o(o,t)&&!r.o(e,t)&&Object.defineProperty(e,t,{enumerable:!0,get:o[t]})},r.f={},r.e=e=>Promise.all(Object.keys(r.f).reduce((o,t)=>(r.f[t](e,o),o),[])),r.u=e=>e+"."+{70:"e690397948440772",113:"1477a45f3db96151",127:"c2c7ceb664d52156",149:"042277599811430a",215:"01fa9d1b67664853",232:"1285708628bee118",334:"491126279610cace",363:"e0f9b505f68e391f",379:"583c107c6e4e5acb",430:"2098f758eeadc83b",443:"63ee36a40e379469",542:"f4fdaafefae5aff7",554:"ddf7f9e23dce7691",580:"175f1ac4b9d765e2",604:"69ee69cf224d779b",716:"4354ec387cb79ff9",789:"3d772800b474000d",794:"e4c80dba10e2c625",845:"9464e61985923c65",887:"d2c47fcedf700723",898:"f6f75057c6bb1b90",903:"2010e2752611e83f",922:"d93efdea94884fe7",961:"4d3a812d81f08c98",998:"7cc044875c3d061d"}[e]+".js",r.miniCssF=e=>{},r.o=(e,o)=>Object.prototype.hasOwnProperty.call(e,o),(()=>{var e={},o="portal:";r.l=(t,f,d,n)=>{if(e[t])e[t].push(f);else{var a,l;if(void 0!==d)for(var c=document.getElementsByTagName("script"),u=0;u<c.length;u++){var i=c[u];if(i.getAttribute("src")==t||i.getAttribute("data-webpack")==o+d){a=i;break}}a||(l=!0,(a=document.createElement("script")).type="module",a.charset="utf-8",a.timeout=120,r.nc&&a.setAttribute("nonce",r.nc),a.setAttribute("data-webpack",o+d),a.src=r.tu(t)),e[t]=[f];var b=(m,p)=>{a.onerror=a.onload=null,clearTimeout(s);var y=e[t];if(delete e[t],a.parentNode&&a.parentNode.removeChild(a),y&&y.forEach(_=>_(p)),m)return m(p)},s=setTimeout(b.bind(null,void 0,{type:"timeout",target:a}),12e4);a.onerror=b.bind(null,a.onerror),a.onload=b.bind(null,a.onload),l&&document.head.appendChild(a)}}})(),r.r=e=>{"undefined"!=typeof Symbol&&Symbol.toStringTag&&Object.defineProperty(e,Symbol.toStringTag,{value:"Module"}),Object.defineProperty(e,"__esModule",{value:!0})},(()=>{var e;r.tt=()=>(void 0===e&&(e={createScriptURL:o=>o},"undefined"!=typeof trustedTypes&&trustedTypes.createPolicy&&(e=trustedTypes.createPolicy("angular#bundler",e))),e)})(),r.tu=e=>r.tt().createScriptURL(e),r.p="",(()=>{var e={666:0};r.f.j=(f,d)=>{var n=r.o(e,f)?e[f]:void 0;if(0!==n)if(n)d.push(n[2]);else if(666!=f){var a=new Promise((i,b)=>n=e[f]=[i,b]);d.push(n[2]=a);var l=r.p+r.u(f),c=new Error;r.l(l,i=>{if(r.o(e,f)&&(0!==(n=e[f])&&(e[f]=void 0),n)){var b=i&&("load"===i.type?"missing":i.type),s=i&&i.target&&i.target.src;c.message="Loading chunk "+f+" failed.\n("+b+": "+s+")",c.name="ChunkLoadError",c.type=b,c.request=s,n[1](c)}},"chunk-"+f,f)}else e[f]=0},r.O.j=f=>0===e[f];var o=(f,d)=>{var c,u,[n,a,l]=d,i=0;if(n.some(s=>0!==e[s])){for(c in a)r.o(a,c)&&(r.m[c]=a[c]);if(l)var b=l(r)}for(f&&f(d);i<n.length;i++)r.o(e,u=n[i])&&e[u]&&e[u][0](),e[u]=0;return r.O(b)},t=self.webpackChunkportal=self.webpackChunkportal||[];t.forEach(o.bind(null,0)),t.push=o.bind(null,t.push.bind(t))})()})();

diff --git a/404.html b/404.html
@@ -31,6 +31,6 @@
   <style>@import"https://fonts.googleapis.com/css2?family=Noto+Sans+JP:wght@300&display=swap";@charset "UTF-8";:root{--bs-blue:#0d6efd;--bs-indigo:#6610f2;--bs-purple:#6f42c1;--bs-pink:#d63384;--bs-red:#dc3545;--bs-orange:#fd7e14;--bs-yellow:#ffc107;--bs-green:#198754;--bs-teal:#20c997;--bs-cyan:#0dcaf0;--bs-white:#fff;--bs-gray:#6c757d;--bs-gray-dark:#343a40;--bs-gray-100:#f8f9fa;--bs-gray-200:#e9ecef;--bs-gray-300:#dee2e6;--bs-gray-400:#ced4da;--bs-gray-500:#adb5bd;--bs-gray-600:#6c757d;--bs-gray-700:#495057;--bs-gray-800:#343a40;--bs-gray-900:#212529;--bs-primary:#0d6efd;--bs-secondary:#6c757d;--bs-success:#198754;--bs-info:#0dcaf0;--bs-warning:#ffc107;--bs-danger:#dc3545;--bs-light:#f8f9fa;--bs-dark:#212529;--bs-primary-rgb:13, 110, 253;--bs-secondary-rgb:108, 117, 125;--bs-success-rgb:25, 135, 84;--bs-info-rgb:13, 202, 240;--bs-warning-rgb:255, 193, 7;--bs-danger-rgb:220, 53, 69;--bs-light-rgb:248, 249, 250;--bs-dark-rgb:33, 37, 41;--bs-white-rgb:255, 255, 255;--bs-black-rgb:0, 0, 0;--bs-body-color-rgb:33, 37, 41;--bs-body-bg-rgb:255, 255, 255;--bs-font-sans-serif:system-ui, -apple-system, "Segoe UI", Roboto, "Helvetica Neue", Arial, "Noto Sans", "Liberation Sans", sans-serif, "Apple Color Emoji", "Segoe UI Emoji", "Segoe UI Symbol", "Noto Color Emoji";--bs-font-monospace:SFMono-Regular, Menlo, Monaco, Consolas, "Liberation Mono", "Courier New", monospace;--bs-gradient:linear-gradient(180deg, rgba(255, 255, 255, .15), rgba(255, 255, 255, 0));--bs-body-font-family:var(--bs-font-sans-serif);--bs-body-font-size:1rem;--bs-body-font-weight:400;--bs-body-line-height:1.5;--bs-body-color:#212529;--bs-body-bg:#fff}*,*:before,*:after{box-sizing:border-box}@media (prefers-reduced-motion: no-preference){:root{scroll-behavior:smooth}}body{margin:0;font-family:var(--bs-body-font-family);font-size:var(--bs-body-font-size);font-weight:var(--bs-body-font-weight);line-height:var(--bs-body-line-height);color:var(--bs-body-color);text-align:var(--bs-body-text-align);background-color:var(--bs-body-bg);-webkit-text-size-adjust:100%;-webkit-tap-highlight-color:rgba(0,0,0,0)}html{font-family:Noto Sans JP,sans-serif}</style><link rel="stylesheet" href="styles.8f36796b14175d04.css" media="print" onload="this.media='all'"><noscript><link rel="stylesheet" href="styles.8f36796b14175d04.css"></noscript></head>
   <body>
     <app-root></app-root>
-  <script src="runtime.f867fd2917c224d5.js" type="module"></script><script src="polyfills.960806c0f3fc3f66.js" type="module"></script><script src="main.b7733e109bd61086.js" type="module"></script>
+  <script src="runtime.f636dacda4126395.js" type="module"></script><script src="polyfills.960806c0f3fc3f66.js" type="module"></script><script src="main.b7733e109bd61086.js" type="module"></script>
 
 </body></html>

diff --git a/index.html b/index.html
@@ -31,6 +31,6 @@
   <style>@import"https://fonts.googleapis.com/css2?family=Noto+Sans+JP:wght@300&display=swap";@charset "UTF-8";:root{--bs-blue:#0d6efd;--bs-indigo:#6610f2;--bs-purple:#6f42c1;--bs-pink:#d63384;--bs-red:#dc3545;--bs-orange:#fd7e14;--bs-yellow:#ffc107;--bs-green:#198754;--bs-teal:#20c997;--bs-cyan:#0dcaf0;--bs-white:#fff;--bs-gray:#6c757d;--bs-gray-dark:#343a40;--bs-gray-100:#f8f9fa;--bs-gray-200:#e9ecef;--bs-gray-300:#dee2e6;--bs-gray-400:#ced4da;--bs-gray-500:#adb5bd;--bs-gray-600:#6c757d;--bs-gray-700:#495057;--bs-gray-800:#343a40;--bs-gray-900:#212529;--bs-primary:#0d6efd;--bs-secondary:#6c757d;--bs-success:#198754;--bs-info:#0dcaf0;--bs-warning:#ffc107;--bs-danger:#dc3545;--bs-light:#f8f9fa;--bs-dark:#212529;--bs-primary-rgb:13, 110, 253;--bs-secondary-rgb:108, 117, 125;--bs-success-rgb:25, 135, 84;--bs-info-rgb:13, 202, 240;--bs-warning-rgb:255, 193, 7;--bs-danger-rgb:220, 53, 69;--bs-light-rgb:248, 249, 250;--bs-dark-rgb:33, 37, 41;--bs-white-rgb:255, 255, 255;--bs-black-rgb:0, 0, 0;--bs-body-color-rgb:33, 37, 41;--bs-body-bg-rgb:255, 255, 255;--bs-font-sans-serif:system-ui, -apple-system, "Segoe UI", Roboto, "Helvetica Neue", Arial, "Noto Sans", "Liberation Sans", sans-serif, "Apple Color Emoji", "Segoe UI Emoji", "Segoe UI Symbol", "Noto Color Emoji";--bs-font-monospace:SFMono-Regular, Menlo, Monaco, Consolas, "Liberation Mono", "Courier New", monospace;--bs-gradient:linear-gradient(180deg, rgba(255, 255, 255, .15), rgba(255, 255, 255, 0));--bs-body-font-family:var(--bs-font-sans-serif);--bs-body-font-size:1rem;--bs-body-font-weight:400;--bs-body-line-height:1.5;--bs-body-color:#212529;--bs-body-bg:#fff}*,*:before,*:after{box-sizing:border-box}@media (prefers-reduced-motion: no-preference){:root{scroll-behavior:smooth}}body{margin:0;font-family:var(--bs-body-font-family);font-size:var(--bs-body-font-size);font-weight:var(--bs-body-font-weight);line-height:var(--bs-body-line-height);color:var(--bs-body-color);text-align:var(--bs-body-text-align);background-color:var(--bs-body-bg);-webkit-text-size-adjust:100%;-webkit-tap-highlight-color:rgba(0,0,0,0)}html{font-family:Noto Sans JP,sans-serif}</style><link rel="stylesheet" href="styles.8f36796b14175d04.css" media="print" onload="this.media='all'"><noscript><link rel="stylesheet" href="styles.8f36796b14175d04.css"></noscript></head>
   <body>
     <app-root></app-root>
-  <script src="runtime.f867fd2917c224d5.js" type="module"></script><script src="polyfills.960806c0f3fc3f66.js" type="module"></script><script src="main.b7733e109bd61086.js" type="module"></script>
+  <script src="runtime.f636dacda4126395.js" type="module"></script><script src="polyfills.960806c0f3fc3f66.js" type="module"></script><script src="main.b7733e109bd61086.js" type="module"></script>
 
 </body></html>
